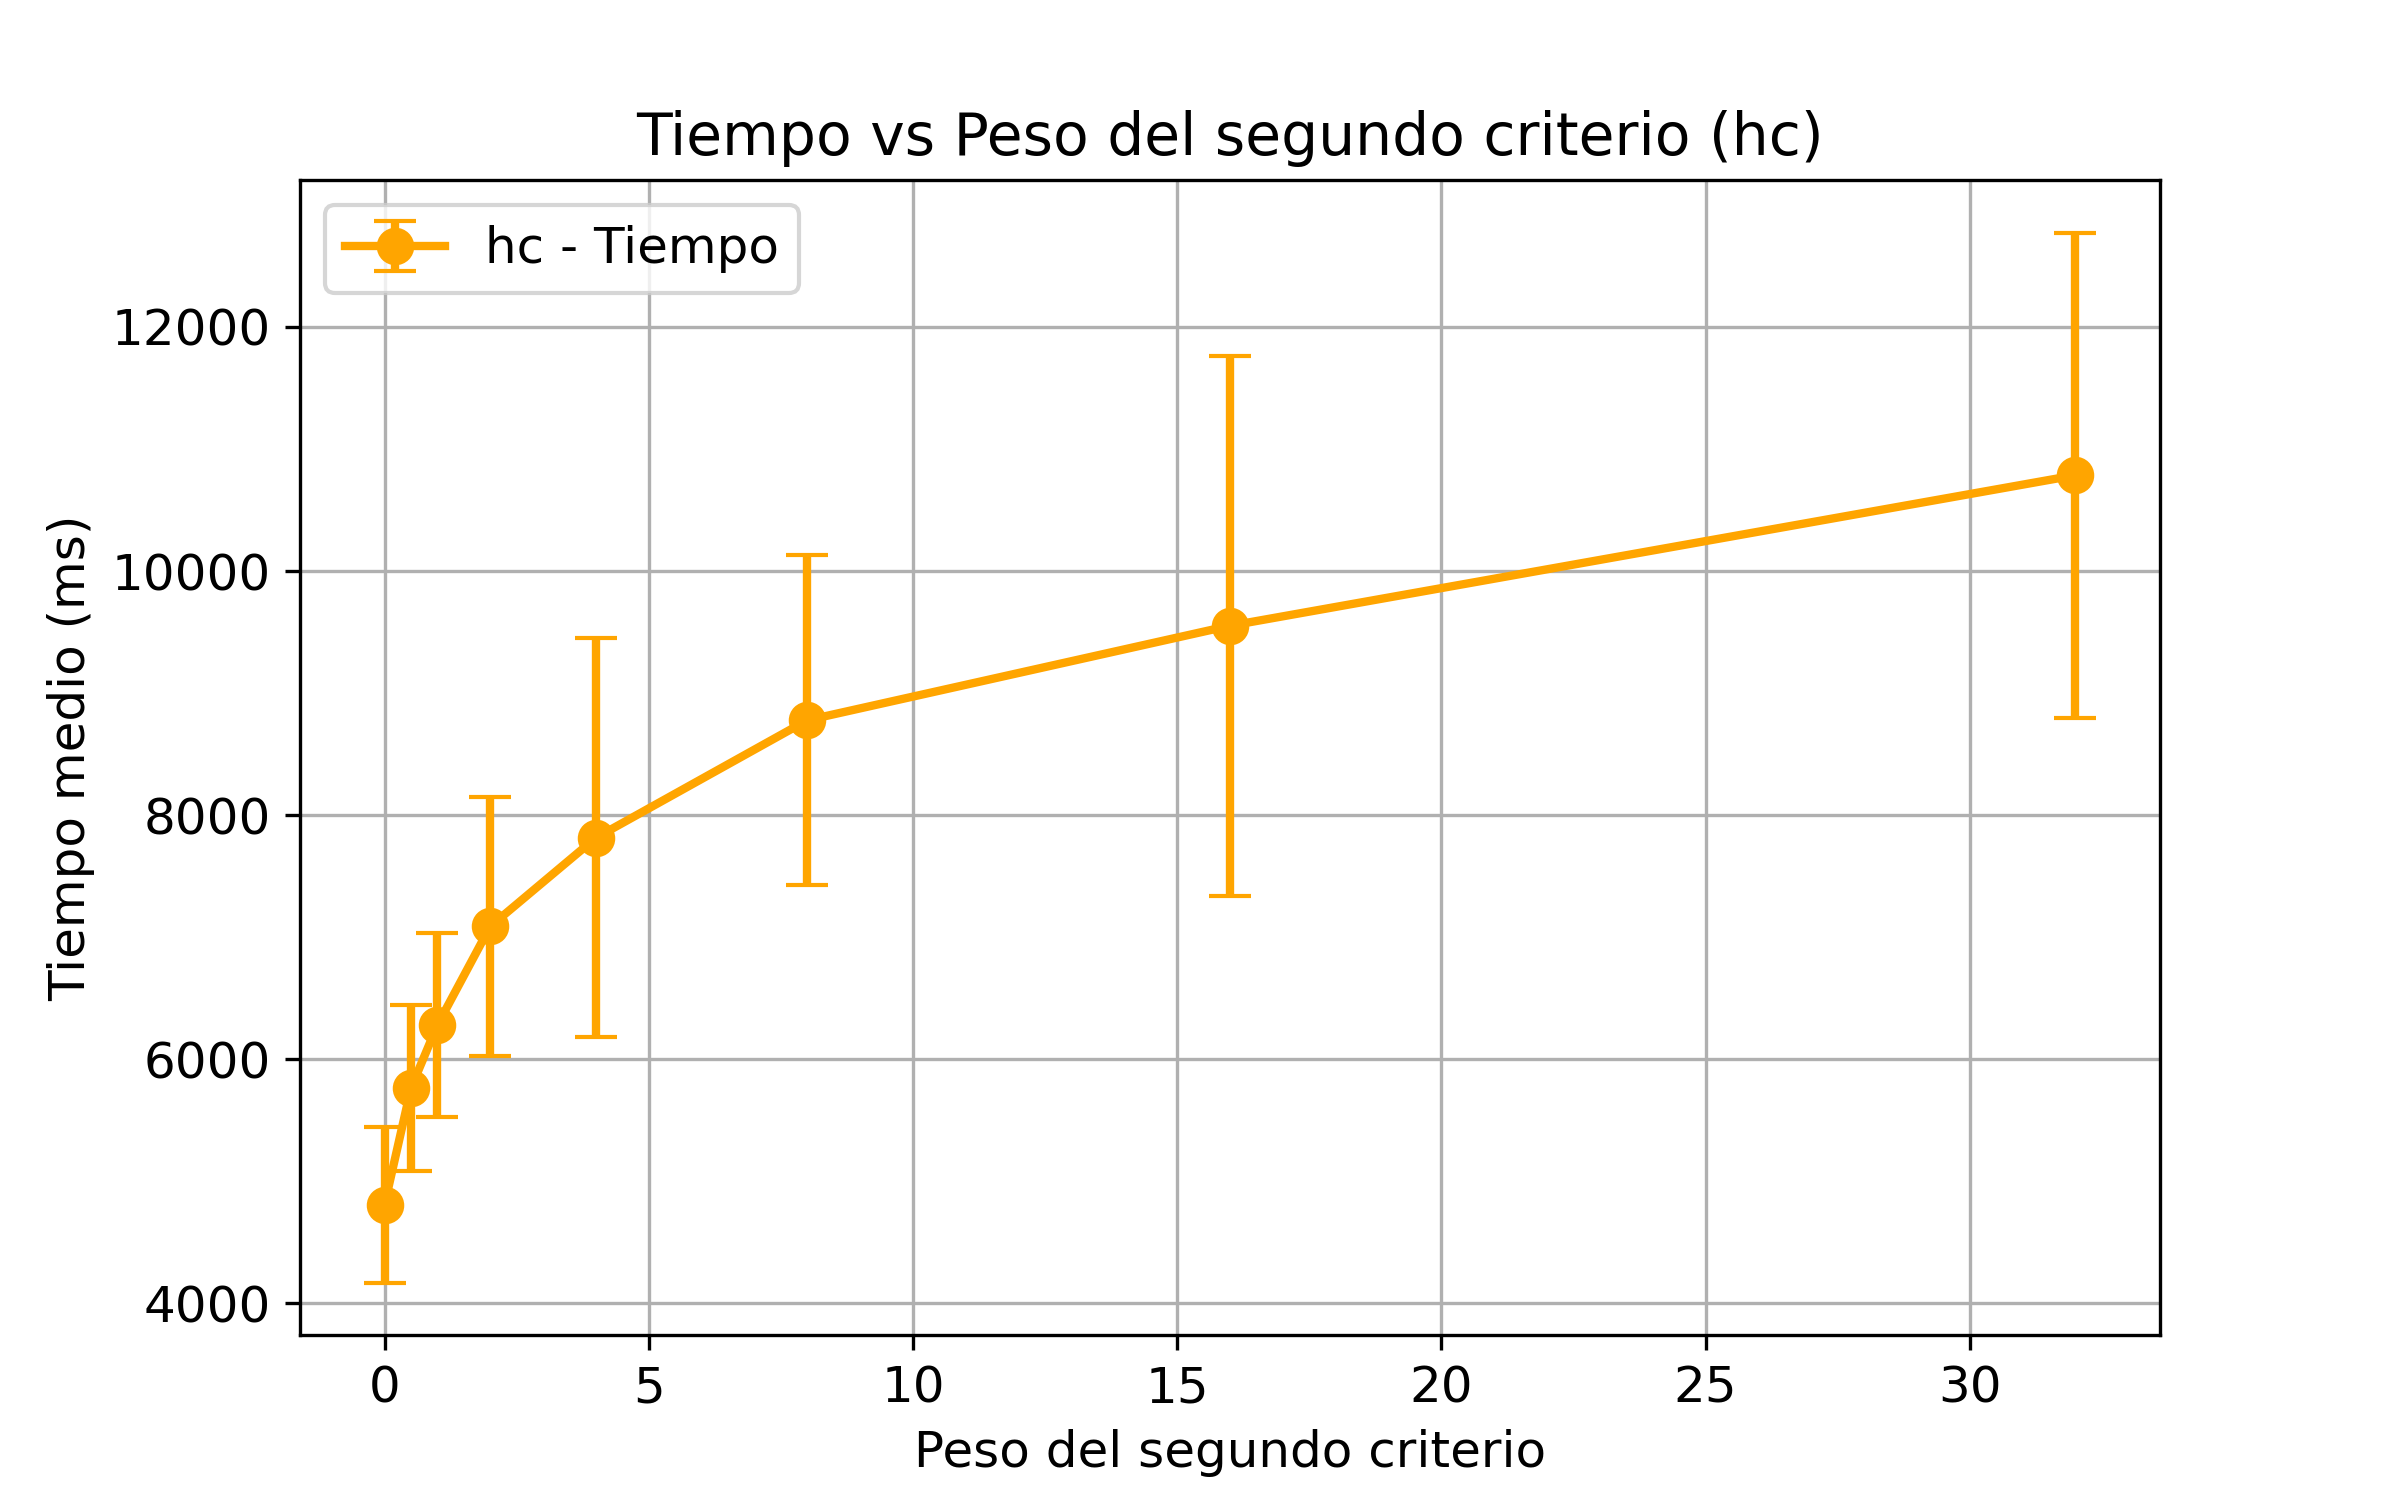
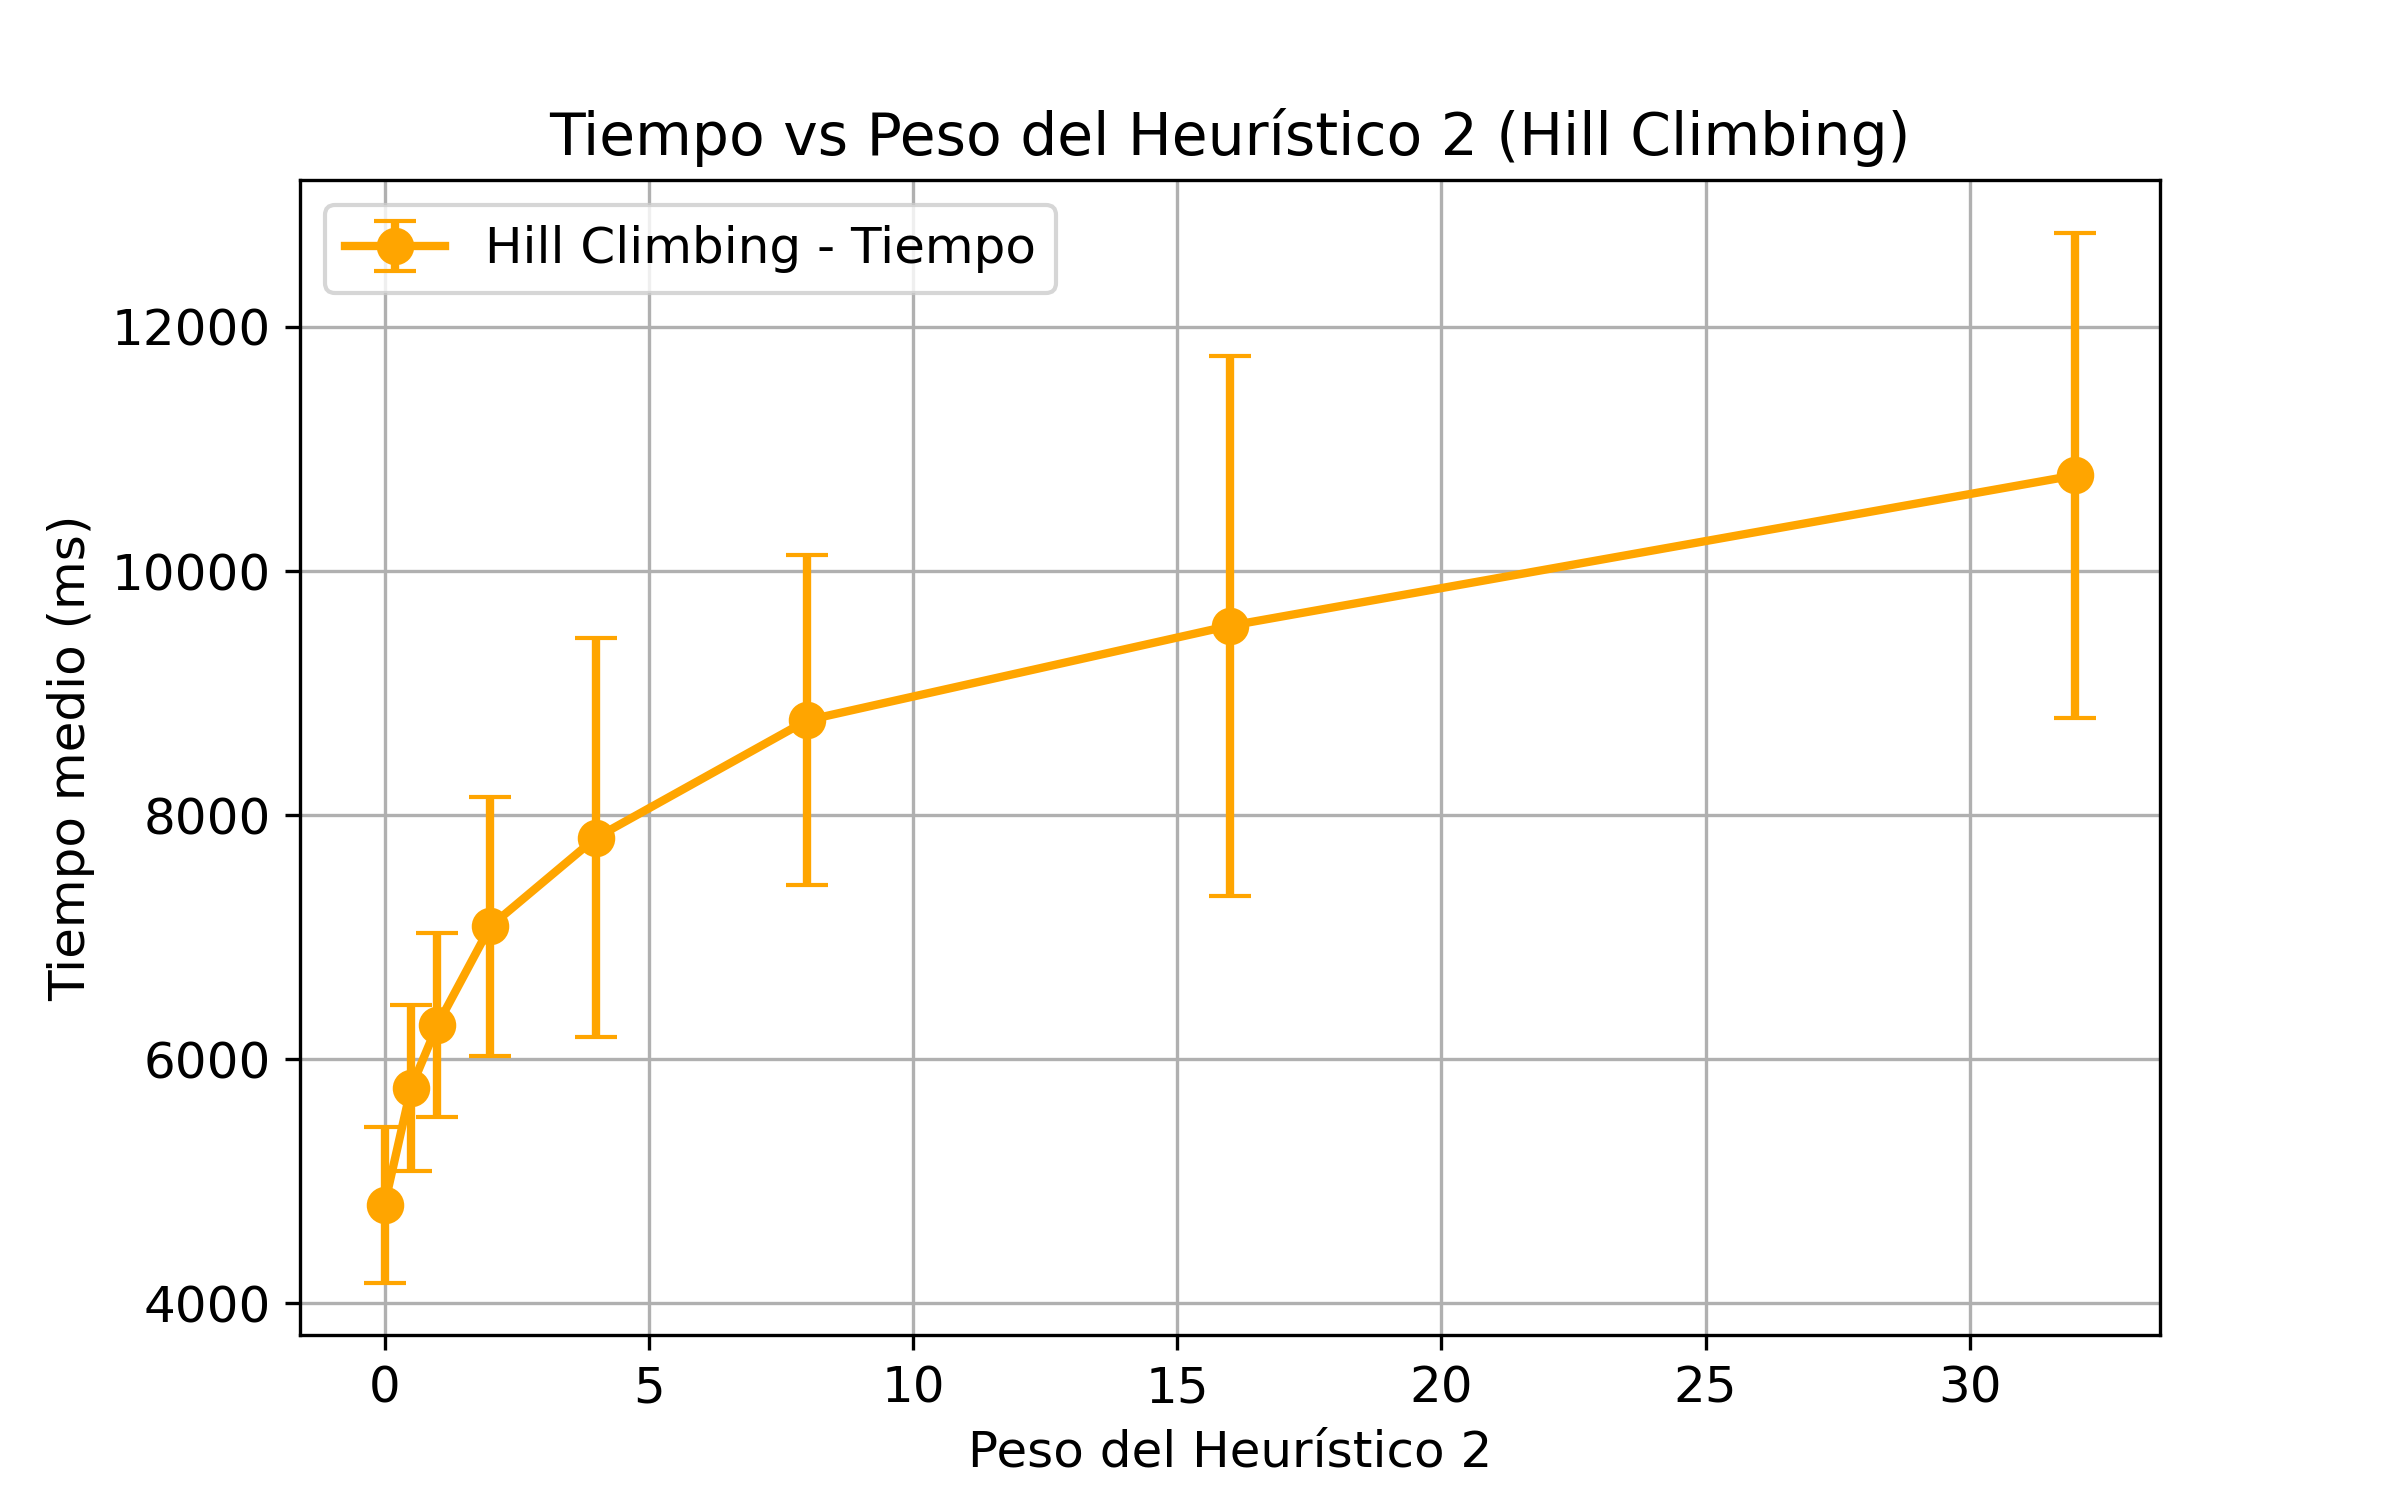
small improvement in exp7 plots

Changed region(s): [[0.1875, 0.0613, 0.7812, 0.184], [0.375, 0.9507, 0.6562, 0.9813]]

diff --git a/resultados/exp7/plot.py b/resultados/exp7/plot.py
@@ -39,9 +39,9 @@ for alg in algoritmos:
     # Gráfico de Coste vs Peso del segundo criterio
     plt.figure(figsize=(8,5))
     plt.errorbar(grouped["peso_h2"], grouped["coste_mean"], yerr=grouped["coste_std"],
-                 fmt='-o', capsize=5, label=labels[alg])
-    plt.title(f'Coste vs Peso del segundo criterio ({alg})')
-    plt.xlabel('Peso del segundo criterio')
+                 fmt='-o', capsize=5, label=f'{labels[alg]} - Coste')
+    plt.title(f'Coste vs Peso del Heurístico 2({labels[alg]})')
+    plt.xlabel('Peso del Heurístico 2')
     plt.ylabel('Coste medio')
     plt.grid(True)
     plt.legend()
@@ -51,9 +51,9 @@ for alg in algoritmos:
     # Gráfico de Tiempo vs Peso del segundo criterio
     plt.figure(figsize=(8,5))
     plt.errorbar(grouped["peso_h2"], grouped["tiempo_mean"], yerr=grouped["tiempo_std"],
-                 fmt='-o', capsize=5, color='orange', label=f'{alg} - Tiempo')
-    plt.title(f'Tiempo vs Peso del segundo criterio ({alg})')
-    plt.xlabel('Peso del segundo criterio')
+                 fmt='-o', capsize=5, color='orange', label=f'{labels[alg]} - Tiempo')
+    plt.title(f'Tiempo vs Peso del Heurístico 2 ({labels[alg]})')
+    plt.xlabel('Peso del Heurístico 2')
     plt.ylabel('Tiempo medio (ms)')
     plt.grid(True)
     plt.legend()
